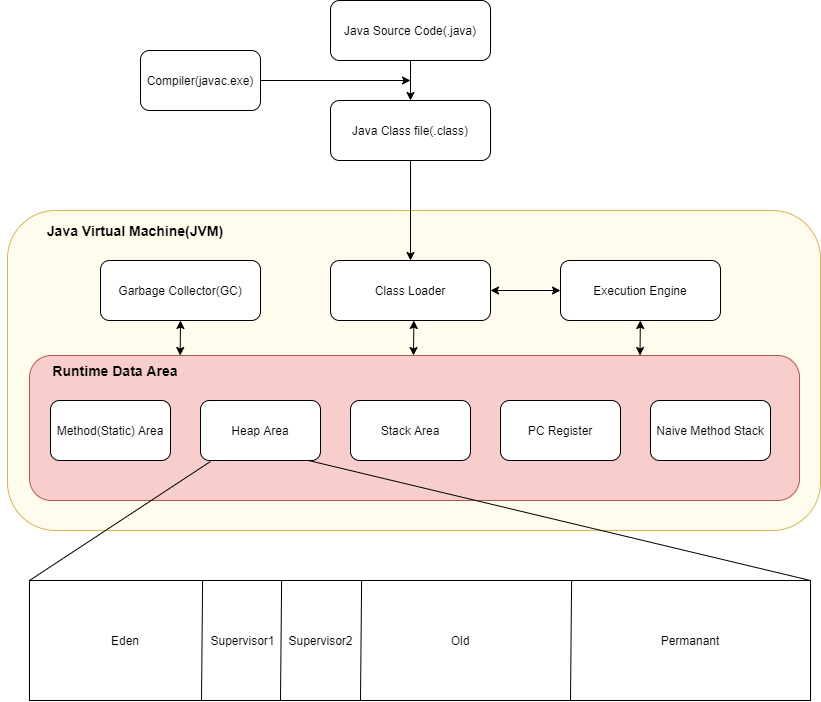
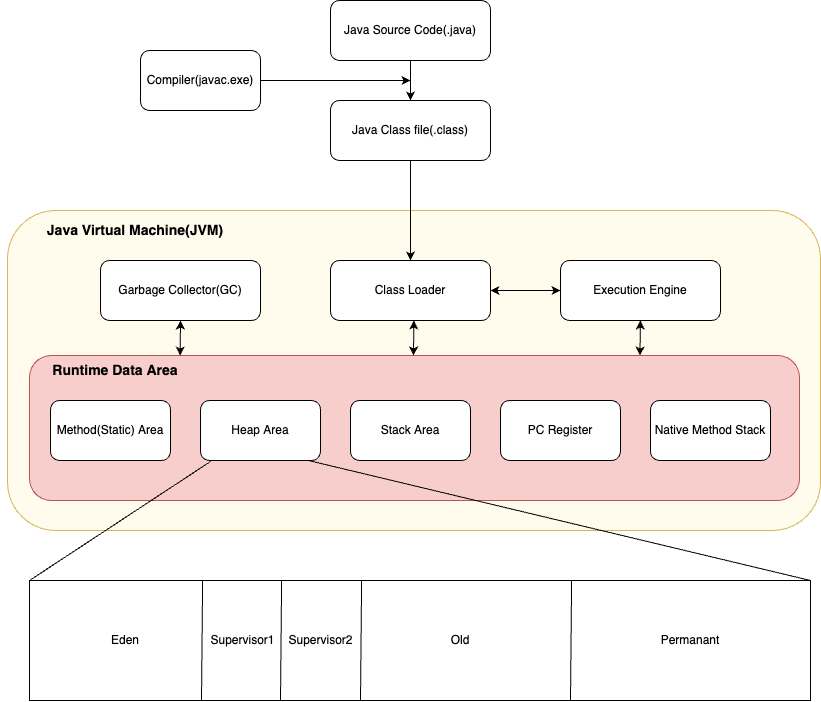
g1gc

diff --git a/content/blog/java/java-memory/index.md b/content/blog/java/java-memory/index.md
@@ -1,6 +1,6 @@
 ---
 title: '자바 실행 구조 & 가비지 컬렉터'
-date: '2020-10-29'
+date: '2020-09-29'
 categories:
   - java
 tags:
@@ -34,10 +34,10 @@ indexImage: './cover.png'
 	- PC Register : 현재 수행 중인 JVM의 명령 주소(Program Counter)를 갖는다.
 	- Native Method Stack Area : 자바 이외의 네이티브 코드를 담는 영역이다.
 
-
+> Java 8 버전부터는 Permenant가 Heap에 포함되지 않으며, Metaspace라는 이름으로 Native 메모리 영역으로 변경되었다.  
 ## Garbage Collector  
 
-자바의 garbage collectiond은 힙 메모리에서 사용중인 오브젝트와 사용하지 않는 오브젝트를 구분하여, 
+자바의 garbage collection은 힙 메모리에서 사용중인 오브젝트와 사용하지 않는 오브젝트를 구분하여, 
 미사용 오브젝트를 삭제하는 것을 말한다.  
 
 ![Object_Life_Cycle](./Object_Life_Cycle.png) 
@@ -46,10 +46,6 @@ indexImage: './cover.png'
 이러한 관점에서 만들어진지 얼마되지 않는 젊은 객체와 오래된 객체를 구분하여 두 종류의 GC를 수행한다. 
 
 ![Garbage_Collection](./Garbage_Collection.png)  
-
-> Java 8 버전부터는 Permenant가 Heap에 포함되지 않으며, Metaspace라는 이름으로 Native 메모리 영역으로 변경되었다.  
-
-**Young Generation**  
 
 1. 먼저 새롭게 생성되는 객체는 **Eden** 영역에 할당된다.
 2. Eden이 가득차면 **Minor Garbage Collection**이 트리거되며, 마킹되어 살아남은 객체들은 Survivor1으로 이동한다. 그리고 Eden은 삭제된다.
@@ -61,33 +57,70 @@ indexImage: './cover.png'
 > Survivor 영역에서 오버플로우가 발생한다면 Eden 영역에서 살아남은 객체들은 Old Generation으로 바로 이동한다.
 
 
-
 ## Garbage Collector의 종류  
 
-1. **The Serial GC**  
+### The Serial GC
 
-	말 그대로 직렬으로 싱글 코어로 GC를 수행한다. GC는 **Stop the World**라고 하여 GC 작업 중에는 다른 모든 스레드가 중지된다. 
-	Java SE 5, 6의 예전에 구현된 GC이며 Major GC는 **Mark-Sweep-Compact** 알고리즘에 따라 동작한다.
+말 그대로 직렬으로 싱글 코어로 GC를 수행한다. GC는 **Stop the World**라고 하여 GC 작업 중에는 다른 모든 스레드가 중지된다. 
+Java SE 5, 6의 예전에 구현된 GC이며 Major GC는 **Mark-Sweep-Compact** 알고리즘에 따라 동작한다.
 
-	> Mark-Sweep-Compact
-	> 1. Mark : 살아있는 즉, 레퍼런스가 존재하는 객체 식별
-	> 2. Sweep : 마킹되지 않은 객체를 삭제
-	> 3. Compact : 효율적인 메모리 공간 사용을 위해 살아남은 객체들을 한 곳으로 모으는 압축 과정
+1. Mark  
+살아있는 즉, 레퍼런스가 존재하는 객체 식별
 
-2. **The Parallel GC**
+2. Sweep  
+마킹되지 않은 객체를 삭제
 
-	Serial GC과 다른 점은 Minor GC를 수행할 때 병렬적으로 즉, 다중 스레드를 사용하여 처리함으로써 throughput을 끌어올렸다.
-	Major GC의 실행의 알고리즘은 동일하다.
+3. Compact  
+효율적인 메모리 공간 사용을 위해 살아남은 객체들을 한 곳으로 모으는 압축 과정
 
-3. **The Concurrent Mark Sweep (CMS) Collector**  
+### Parallel GC
 
-	비교적 최신의 GC로 GC의 **Stop the World** 시간을 최소화하기 위한 알고리즘을 사용한다. 
-	Initial Mark → Concurrent Mark → Remark → Concurrent Sweep 과정을 거친다.
+Serial GC과 다른 점은 Minor GC를 수행할 때 병렬적으로 즉, 다중 스레드를 사용하여 처리함으로써 throughput을 끌어올렸다.
+Major GC의 실행의 알고리즘은 동일하다.
 
-	> 1. Initial Mark : Stop the World가 발생하는 구간이다. 살아 남는 객체를 탐색하는 과정에서 살아 남은 객체를 하나를 찾으면 종료한다. 매우 짧은 시간 동안 동작한다.
-	> 2. Concurrent Mark : Stop the World 없이 스레드와 병렬적으로 1 단계에서 찾은 객체를 기반으로 추적하며 살아남은 객체를 식별한다.
-	> 3. Remark : 2 단계에서 스레드가 동작하면서 변경된 사항을 체크한다.
-	> 4. Concurrent Sweep : 마킹이 없는 객체들을 삭제한다.
+### Concurrent Mark Sweep (CMS) Collector
+
+기본적인 형태의 GC에서 **Stop the World** 시간을 줄이기 위한 알고리즘을 사용한다. 
+Initial Mark → Concurrent Mark → Remark → Concurrent Sweep 과정을 거친다.
+
+1. Initial Mark  
+Stop the World가 발생하는 구간이다. 살아 남는 객체를 탐색하는 과정에서 살아 남은 객체를 하나를 찾으면 종료한다. 매우 짧은 시간 동안 동작한다.
+
+2. Concurrent Mark  
+Stop the World 없이 스레드와 병렬적으로 1 단계에서 찾은 객체를 기반으로 추적하며 살아남은 객체를 식별한다.
+
+3. Remark  
+2 단계에서 스레드가 동작하면서 변경된 사항을 체크한다.
+
+4. Concurrent Sweep  
+마킹이 없는 객체들을 삭제한다.
+
+### G1GC
+
+Java 9 이 후 디폴트로 사용되고 있는 GC이며 현재 LTS 버전인 11, 17에서도 디폴트로 사용하고 있다. 
+Young, Old Generation를 물리적으로 구분하던 전통적인 GC와는 다르게 Heap 영역을 **Region**이라고 단위로 구분한다. 
+
+![g1gc](g1gc.png)
+
+1. Initial Mark(Stop the World Event)  
+Old Generation를 참조하는 객체가 있을 수 있는 Survivor Region를 찾아 마킹한다.
+
+2. Root Region Scan  
+1에서 찾은 Survivor Region에 대한 스캔 작업을 진행한다.
+
+3. Concurrent Mark  
+전체 Heap에서 살아있는 객체들을 마킹하며, 비어있는 region들은 바로 반환된다. 
+이 단계는 Young Generation Garbage Collections에 의해 중지될 수 있다.
+
+4. Remark(Stop the World Event)  
+전체 Heap에서 살아있는 객체에 대한 마킹을 마무리한다. 앞선 단계의 과정에서 다른 스레드에서 동작하여 변경된 사항을 검증한다. 
+비어있다고 판단되는 region들은 반환된다. 
+
+5. Cleanup(Stop the World Event, Concurrent)  
+살아있는 객체가 가장 적은 Region의 미사용 객체 제거 수행한다. 이 후 완전히 비어있는 Region을 반환한다.
+
+6. Copying(Stop the World Event)  
+살아있는 객체들이 존재하는 region의 객체들을 새로운 region에 복사하고 압축한다.
 
 <br/>
 
@@ -95,3 +128,4 @@ indexImage: './cover.png'
 - [Java Garbage Collection Basics](https://www.oracle.com/webfolder/technetwork/tutorials/obe/java/gc01/index.html)
 - [Java Platform, Standard Edition HotSpot Virtual Machine Garbage Collection Tuning Guide](https://docs.oracle.com/javase/8/docs/technotes/guides/vm/gctuning/generations.html)
 - [Java의 GC는 어떻게 동작하나?](https://mirinae312.github.io/develop/2018/06/04/jvm_gc.html)
+- [Getting Started with the G1 Garbage Collector](https://www.oracle.com/technetwork/tutorials/tutorials-1876574.html)
